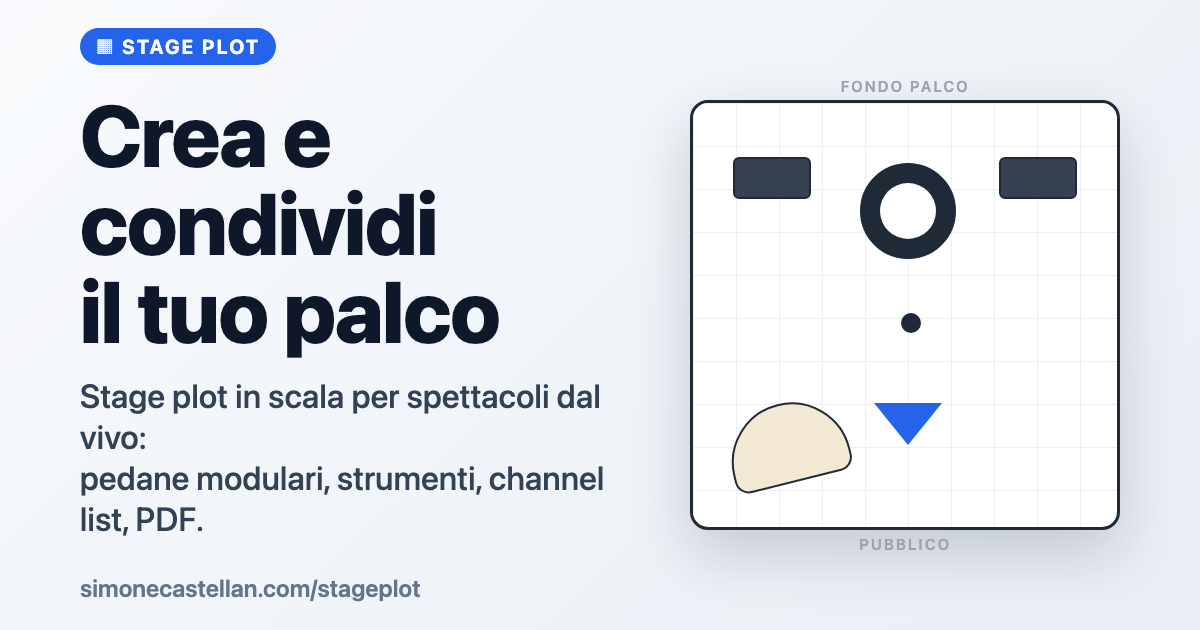
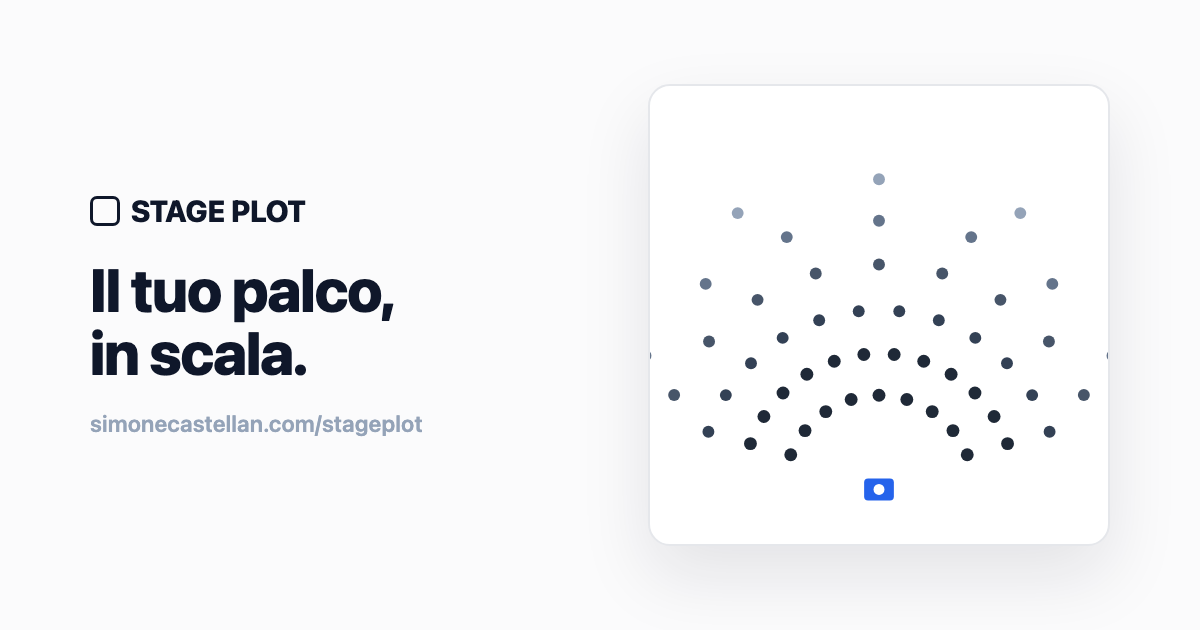
Stage plot: anteprima link minimale con formazione orchestrale
- preview.png ridisegnata: stile minimal ('Il tuo palco, in scala.') + orchestra sinfonica a ventaglio nel quadrato (archi/legni/ottoni/percussioni + direttore)
- cache bust ?v=2 su og:image/twitter:image

diff --git a/stageplot/index.html b/stageplot/index.html
@@ -14,13 +14,13 @@
 <meta property="og:description" content="Stage plot in scala per spettacoli dal vivo: palco modulare a pedane, strumenti e organici, channel list, PDF. Apri il link e vedi il progetto già caricato.">
 <meta property="og:url" content="https://simonecastellan.com/stageplot/">
 <meta property="og:site_name" content="Stage Plot">
-<meta property="og:image" content="https://simonecastellan.com/stageplot/preview.png?v=1">
+<meta property="og:image" content="https://simonecastellan.com/stageplot/preview.png?v=2">
 <meta property="og:image:width" content="1200">
 <meta property="og:image:height" content="630">
 <meta name="twitter:card" content="summary_large_image">
 <meta name="twitter:title" content="Stage Plot — crea e condividi il tuo palco">
 <meta name="twitter:description" content="Stage plot in scala per spettacoli dal vivo. Apri il link e vedi il progetto già caricato.">
-<meta name="twitter:image" content="https://simonecastellan.com/stageplot/preview.png?v=1">
+<meta name="twitter:image" content="https://simonecastellan.com/stageplot/preview.png?v=2">
 <style>
   *{box-sizing:border-box;margin:0;padding:0}
   html,body{height:100%}